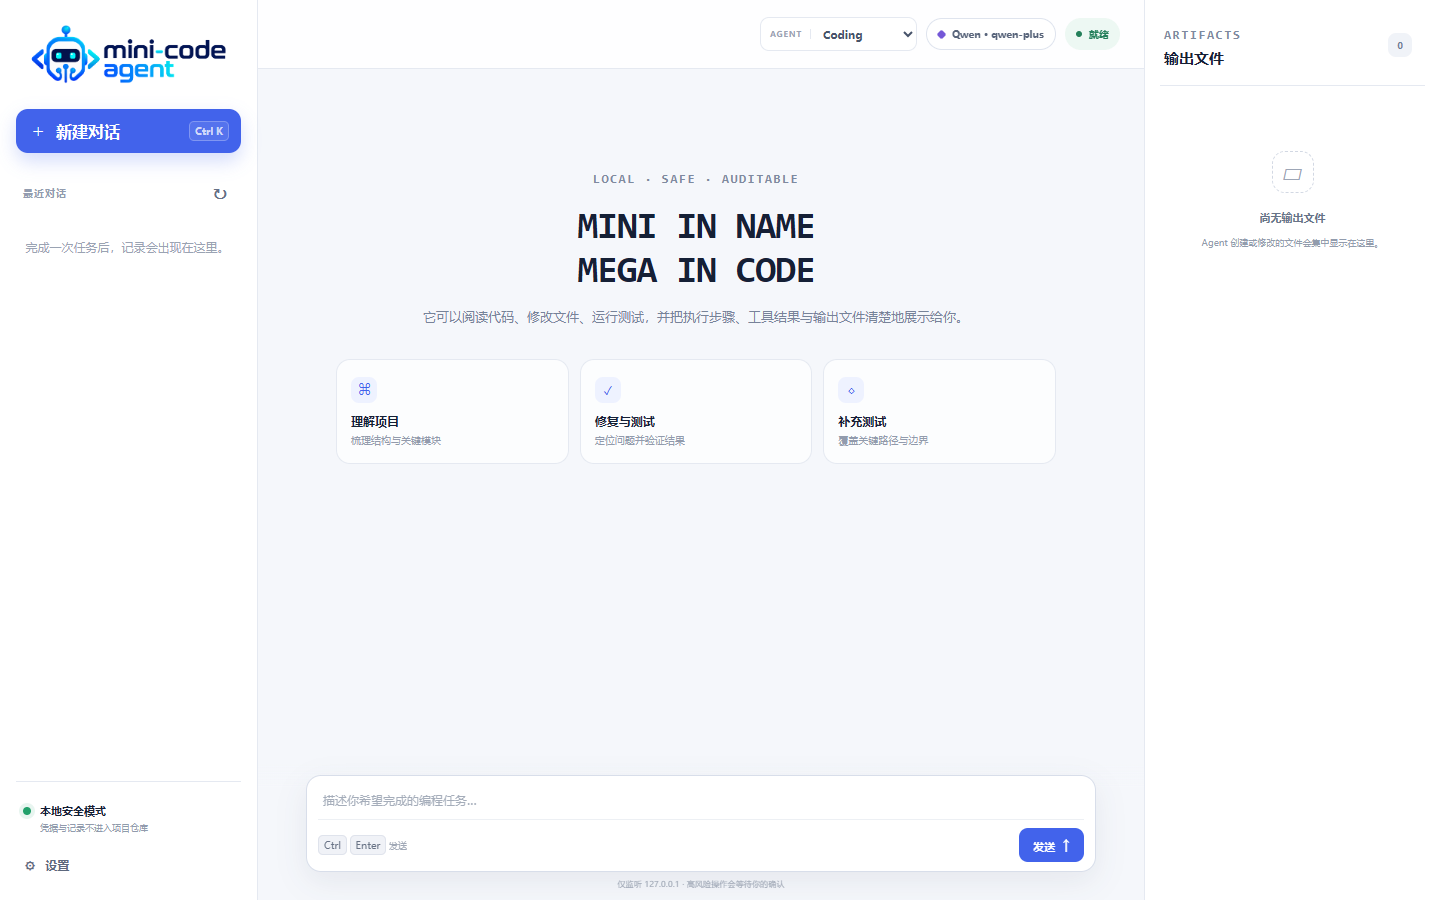
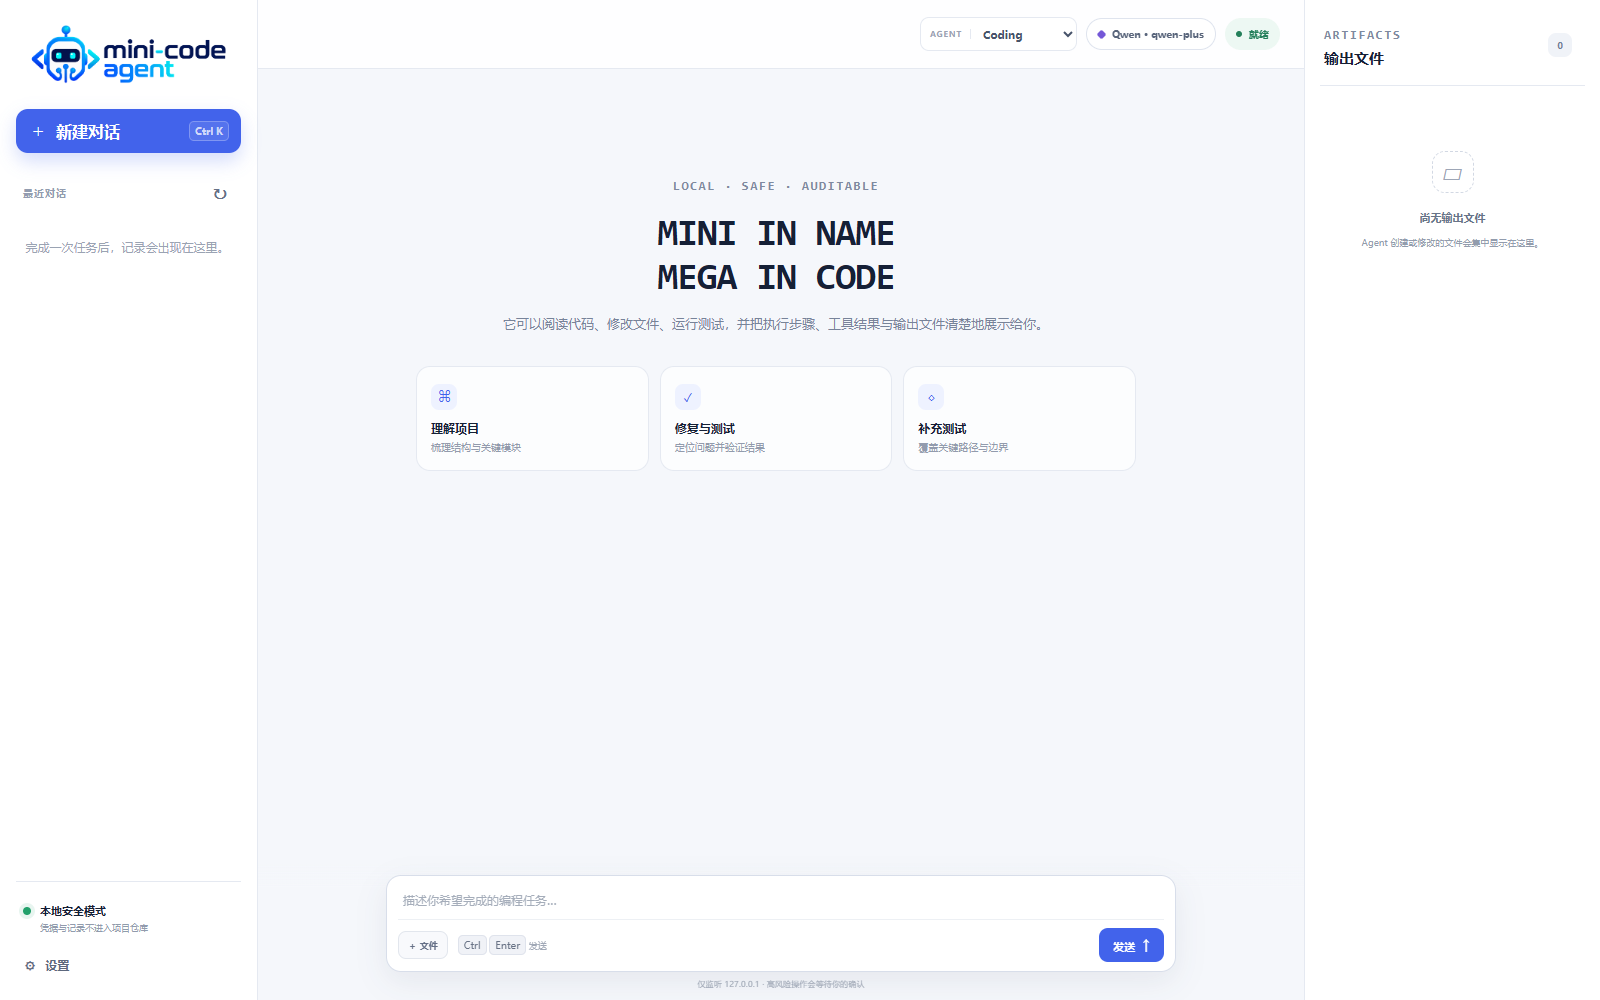
docs: refres project documentation

diff --git a/README.md b/README.md
@@ -28,7 +28,7 @@ MiniCode Agent 将模型决策与本地执行分开：Qwen 选择下一步动作
 - **两种工作模式**：Coding 处理常规代码任务，LeetCode 提供解题、提示、面试和复盘模式。
 - **完整工具闭环**：支持文件读取、写入、精确补丁、目录查看、文本搜索和无 Shell 命令执行；工作区内生成的程序可按当前目录直接启动。
 - **明确工具契约**：Runtime 在执行前检查参数类型、枚举和数值边界；路径 glob 同时兼容两种分隔符。
-- **文件化输入与可见输出**：可上传 UTF-8 文本或源码；模型初始只接收文件名并按需读取。网页展示步骤摘要、工具结果、Markdown 回答和文件预览，也可打开文件所在目录。
+- **文件化输入与可见输出**：可上传 UTF-8 文本或源码；模型初始只接收文件名并按需读取。网页展示步骤摘要、工具结果、Markdown 回答和文件预览，也可打开文件所在目录；长对话在中央区域独立滚动，输入区始终保留在视口内。
 - **连续对话**：同一会话可追问并复用上下文；每个会话使用独立工作区。新建空会话会直接创建所需文件，不先扫描空目录。
 - **本地数据隔离**：历史与偏好存放在仓库外，API Key 交由操作系统凭据库管理。
 - **可恢复停止条件**：提供路径边界、命令风险分级、人工确认、超时、重试、取消和连续工具错误上限；成功动作会清除连续错误计数。
@@ -49,6 +49,13 @@ python -m venv .venv
 # Windows PowerShell
 .venv\Scripts\Activate.ps1
 python -m pip install -r requirements.txt
+```
+
+如果 PowerShell 禁止执行激活脚本，也可以直接使用虚拟环境解释器：
+
+```powershell
+.venv\Scripts\python.exe -m pip install -r requirements.txt
+.venv\Scripts\python.exe main.py
 ```
 
 ```bash
@@ -173,7 +180,7 @@ node --check minicode_agent/web/static/app.js
 python -m pytest
 ```
 
-当前 75 项离线测试覆盖 Agent Loop、首轮工作区提示、可取消重试、连续错误恢复、上下文裁剪、Qwen Tool Calling、上传校验与隔离、前后端能力协商、端口独占、工具 Schema 边界、文件夹定位、工作区可执行文件解析、命令策略、审批、超时、多轮对话和本地 HTTP 安全头。
+当前 75 项离线测试覆盖 Agent Loop、首轮工作区提示、可取消重试、连续错误恢复、上下文裁剪、Qwen Tool Calling、上传校验与隔离、前后端能力协商、端口独占、工具 Schema 边界、文件夹定位、工作区可执行文件解析、命令策略、审批、超时、多轮对话、本地 HTTP 安全头和页面高度约束。
 
 ## License
 
